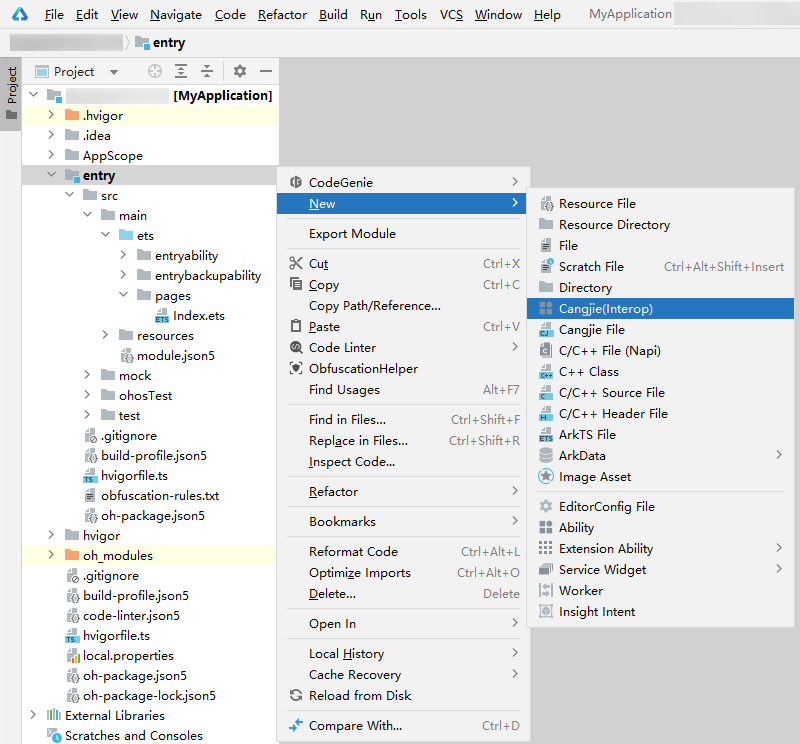
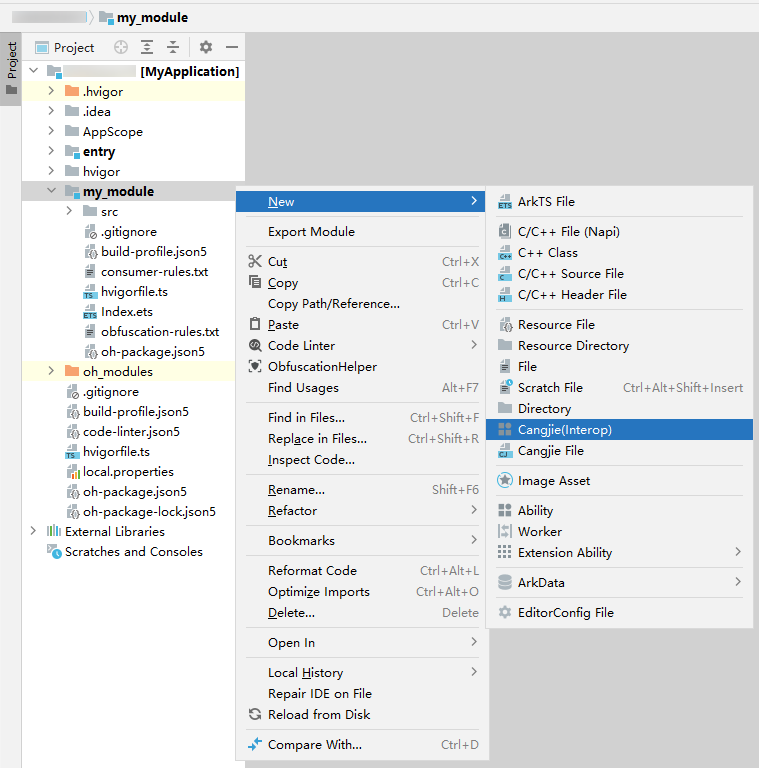
fix: cj-quick-start-first-cangjie-hybrid-module.md support for Shared Library template

Changed region(s): [[0.0, 0.0, 1.0, 1.0]]

diff --git a/en/application-dev/learn-cj/FFI/cangjie-arkts/cj-quick-start-first-cangjie-hybrid-module.md b/en/application-dev/learn-cj/FFI/cangjie-arkts/cj-quick-start-first-cangjie-hybrid-module.md
@@ -2,7 +2,7 @@
 
 > **Note:**
 >
-> To ensure the operational effect, this document uses **DevEco Studio 5.0.2 Release** and **DevEco Studio-Cangjie Plugin 5.0.7.100 Beta1** as examples. Click [here](https://developer.huawei.com/consumer/en/download/) to download the latest version.
+> To ensure the operational effect, this document uses **DevEco Studio 6.0.2 Release** and **DevEco Studio-Cangjie Plugin 6.0.2 Beta2** as examples. Click [here](https://developer.huawei.com/consumer/en/download/) to download the latest version.
 
 This document is intended for OpenHarmony application developers who have a basic understanding of the Cangjie language, ArkTS language, and UI frameworks. Based on a simple, purely ArkTS-developed application that supports page navigation/return functionality, this guide demonstrates how to introduce Cangjie to develop incremental features (e.g., Cangjie providing a synchronous interface for ArkTS to call, an asynchronous interface for ArkTS to call, and embedding a Cangjie component in the original ArkTS page). This helps developers quickly understand how to introduce Cangjie into existing ArkTS projects and familiarize themselves with the hybrid application development process.
 
@@ -44,7 +44,7 @@ Project_name
 
 Where:
 - **entry** is an ArkTS module created using the **Empty Ability** project template, which is compiled into a HAP package.
-- **my_module** is an ArkTS static library module created using the **Static Library** project template, which is compiled into a HAR package and depended on by the **entry** module.
+- **my_module** is an ArkTS module created using a project template. The module will be compiled into a HAR package and depended on by the **entry** module. **my_module** can be created using either the **Shared Library** project template or the **Static Library** project template. The sample code below creates an ArkTS shared library module using the **Shared Library** project template.
 
 Both **entry** and **my_module** modules contain a page, with navigation between them via the Navigation component.
 
@@ -66,11 +66,11 @@ Both **entry** and **my_module** modules contain a page, with navigation between
    │    ├── mock
    │    ├── ohosTest
    │    └── test
+   ├── .gitignore
    ├── build-profile.json5
    ├── hvigorfile.ts
    ├── obfuscation-rules.txt
-   ├── oh-package.json5
-   └── oh-package-lock.json5
+   └── oh-package.json5
    ```
 
    - Example of **entry > src > main > ets > pages > Index.ets**:
@@ -119,18 +119,23 @@ Both **entry** and **my_module** modules contain a page, with navigation between
    ├── src
    │    ├── main
    │    │    ├── ets
-   │    │    │    └── pages
-   │    │    │         └── MyModulePage.ets
+   │    │    │    ├── pages
+   |    │    │    │    ├── Index.ets
+   │    │    │    │    └── MyModulePage.ets
+   |    │    │    └── utils
    │    │    ├── resources
-   │    │    │    └── base
-   │    │    │         ├── element
-   │    │    │         └── profile
-   │    │    │              └──router_map.json
+   │    │    │    ├── base
+   │    │    │    │    ├── element
+   |    │    │    │    ├── media
+   │    │    │    │    └── profile
+   │    │    │    │         ├──main_pages.json
+   │    │    │    │         └──router_map.json
+   │    │    │    └── rawfile
    │    │    └── module.json5
    │    ├── ohosTest
    │    └── test
+   ├── .gitignore
    ├── build-profile.json5
-   ├── BuildProfile.ets
    ├── consumer-rules.txt
    ├── hvigorfile.ts
    ├── Index.ets
@@ -178,7 +183,6 @@ Both **entry** and **my_module** modules contain a page, with navigation between
    - **my_module > src > main > resources > base > profile > route_map.json** must configure the subpage routing information, as shown below:
 
    ```json
-   // router_map.json
    {
      "routerMap": [
        {
@@ -206,10 +210,6 @@ Both **entry** and **my_module** modules contain a page, with navigation between
 
 ## Incrementally Using Cangjie in an ArkTS Module
 
-> **Note:**
->
-> Currently, Cangjie modules only support OpenHarmony static library modules, i.e., HAR static shared packages.
-
 Using the original ArkTS application project as an example, this section explains how to enable Cangjie development in an ArkTS module (i.e., **my_module**).
 
 ### Right-Click Menu to Enable Cangjie-ArkTS Hybrid Module
@@ -231,22 +231,29 @@ After the project syncs automatically, the directory structure is as follows:
     │    ├── main
     │    │    ├── cangjie
     │    │    │    ├── types
-    │    │    │    │    └── libohos_app_cangjie_entry
+    │    │    │    │    └── libohos_app_cangjie_my_module
     │    │    │    │          ├── Index.d.ts
     │    │    │    │          └── oh-package.json5
     │    │    │    └── index.cj
     │    │    ├── ets
-    │    │    │    └── pages
-    │    │    │         └── MyModulePage.ets
+    │    │    │    ├── pages
+    |    │    │    |    ├── Index.ets
+    │    │    │    |    └── MyModulePage.ets
+    |    │    │    └── utils
     │    │    ├── resources
     │    │    │    └── base
-    │    │    │         ├── element
-    │    │    │         └── profile
-    │    │    │              └── router_map.json
+    │    │    │    |    ├── element
+    |    │    │    |    ├── media
+    │    │    │    |    └── profile
+    |    │    │    |         ├──main_pages.json
+    │    │    │    |         └── router_map.json
+    |    │    │    └── rawfile
     │    │    └── module.json5
     │    ├── ohosTest
     │    └── test
     ├── build-profile.json5
+    ├── cjpm.lock
+    ├── cjpm.toml
     ├── consumer-rules.txt
     ├── hvigorfile.ts
     ├── Index.ets
@@ -293,7 +300,7 @@ Here, **my_module** becomes a Cangjie-ArkTS hybrid module.
 
 2. Automatically generate Cangjie-ArkTS interop interface declarations.
 
-   Open **index.cj**, right-click in the editor, and select **Generate... > Cangjie-ArkTS Interop API**. This generates .d.ts interface declarations in **entry > src > main > cangjie > types > libohos_app_cangjie_entry > Index.d.ts**, exposing Cangjie interfaces to ArkTS. The directory structure is as follows:
+   Open **index.cj**, right-click in the editor, and select **Generate... > Cangjie-ArkTS Interop API**. This generates .d.ts interface declarations in **entry > src > main > cangjie > types > libohos_app_cangjie_my_module > Index.d.ts**, exposing Cangjie interfaces to ArkTS. The directory structure is as follows:
 
    ```text
    my_module
@@ -305,7 +312,7 @@ Here, **my_module** becomes a Cangjie-ArkTS hybrid module.
              ├── cangjie
              │    ├── ark_interop_api
              │    ├── types
-             │    │    └── libohos_app_cangjie_entry
+             │    │    └── libohos_app_cangjie_my_module
              │    │         │── Index.d.ts
              │    │         └── oh-package.json5
              │    └── index.cj
@@ -419,9 +426,11 @@ Here, **my_module** becomes a Cangjie-ArkTS hybrid module.
         │    │    ├── cangjie_page.cj
         │    │    └── index.cj
         │    ├── ets
-        │    │    └── pages
-        │    │         └── cangjie_page.ets
-        │    │         └── MyModulePage.ets
+        │    │    ├── pages
+        │    │    |    ├── cangjie_page.ets
+        |    │    |    ├── Index.ets
+        │    │    |    └── MyModulePage.ets
+        |    |    └── utils
         │    ├── resources
         │    └── module.json5
         ├── ohosTest

diff --git a/zh-cn/application-dev/learn-cj/FFI/cangjie-arkts/cj-quick-start-first-cangjie-hybrid-module.md b/zh-cn/application-dev/learn-cj/FFI/cangjie-arkts/cj-quick-start-first-cangjie-hybrid-module.md
@@ -2,7 +2,7 @@
 
 > **说明：**
 >
-> 为确保运行效果，本文以**DevEco Studio 5.0.2 Release** 和 **DevEco Studio-Cangjie Plugin 5.0.7.100 Beta1** 版本为例，单击[此处](https://developer.huawei.com/consumer/cn/download/)获取最新版本的下载链接。
+> 为确保运行效果，本文以**DevEco Studio 6.0.2 Release** 和 **DevEco Studio-Cangjie Plugin 6.0.2 Beta2** 版本为例，单击[此处](https://developer.huawei.com/consumer/cn/download/)获取最新版本的下载链接。
 
 本文档适用于对仓颉语言、ArkTS语言、UI框架等有基本概念的OpenHarmony应用开发者。基于一个简单的、支持页面跳转/返回功能的、纯ArkTS开发的应用，通过引入仓颉来开发一些增量业务（比如，仓颉提供一个同步接口给ArkTS调用，仓颉提供一个异步接口给ArkTS调用，在原ArkTS页面中嵌入一个仓颉组件），来帮助开发者快速了解如何在存量ArkTS业务中，快速引入仓颉进行开发，熟悉混合应用的开发流程。
 
@@ -45,7 +45,7 @@ Project_name
 其中：
 
 - **entry** 是通过 **Empty Ability** 工程模板创建的ArkTS模块，该模块会被编译为HAP包。
-- **my_module** 是通过 **Static Library** 工程模块创建的ArkTS静态库模块，该模块会被编译为HAR包，被**entry**模块依赖。
+- **my_module** 是通过工程模板创建的ArkTS模块，该模块会被编译为HAR包，被**entry**模块依赖。**my_module** 模块可以通过 **Shared Library** 工程模板创建，也可以通过 **Static Library** 工程模板创建，下面示例代码通过 **Shared Library** 工程模板创建ArkTS共享库模块。
 
 **entry**和**my_module**模块内各有一个页面，通过Navigation进行页面路由。
 
@@ -67,11 +67,11 @@ Project_name
    │    ├── mock
    │    ├── ohosTest
    │    └── test
+   ├── .gitignore
    ├── build-profile.json5
    ├── hvigorfile.ts
    ├── obfuscation-rules.txt
-   ├── oh-package.json5
-   └── oh-package-lock.json5
+   └── oh-package.json5
    ```
 
     - **entry > src > main > ets > pages > Index.ets** 文件的示例如下：
@@ -120,18 +120,23 @@ Project_name
    ├── src
    │    ├── main
    │    │    ├── ets
-   │    │    │    └── pages
-   │    │    │         └── MyModulePage.ets
+   │    │    │    ├── pages
+   |    │    │    │    ├── Index.ets
+   │    │    │    │    └── MyModulePage.ets
+   |    │    │    └── utils
    │    │    ├── resources
-   │    │    │    └── base
-   │    │    │         ├── element
-   │    │    │         └── profile
-   │    │    │              └──router_map.json
+   │    │    │    ├── base
+   │    │    │    │    ├── element
+   |    │    │    │    ├── media
+   │    │    │    │    └── profile
+   │    │    │    │         ├──main_pages.json
+   │    │    │    │         └──router_map.json
+   │    │    │    └── rawfile
    │    │    └── module.json5
    │    ├── ohosTest
    │    └── test
+   ├── .gitignore
    ├── build-profile.json5
-   ├── BuildProfile.ets
    ├── consumer-rules.txt
    ├── hvigorfile.ts
    ├── Index.ets
@@ -179,7 +184,6 @@ Project_name
     - **my_module > src > main > resources > base > profile > router_map.json**需要配置子页的路由信息，示例如下：
 
    ```json
-   // router_map.json
    {
      "routerMap": [
        {
@@ -207,10 +211,6 @@ Project_name
 
 ## 在ArkTS模块中增量使用仓颉
 
-> **说明：**
->
-> 仓颉模块目前仅支持OpenHarmony的静态库模块，即HAR静态共享包。
-
 仍以上方原始的ArkTS应用工程为例，介绍如何在ArkTS模块中（即**my_module**）使能仓颉开发。
 
 ### 右键菜单一键使能仓颉-ArkTS混合模块
@@ -232,22 +232,29 @@ Project_name
     │    ├── main
     │    │    ├── cangjie
     │    │    │    ├── types
-    │    │    │    │    └── libohos_app_cangjie_entry
+    │    │    │    │    └── libohos_app_cangjie_my_module
     │    │    │    │          ├── Index.d.ts
     │    │    │    │          └── oh-package.json5
     │    │    │    └── index.cj
     │    │    ├── ets
-    │    │    │    └── pages
-    │    │    │         └── MyModulePage.ets
+    │    │    │    ├── pages
+    |    │    │    |    ├── Index.ets
+    │    │    │    |    └── MyModulePage.ets
+    |    │    │    └── utils
     │    │    ├── resources
     │    │    │    └── base
-    │    │    │         ├── element
-    │    │    │         └── profile
-    │    │    │              └── router_map.json
+    │    │    │    |    ├── element
+    |    │    │    |    ├── media
+    │    │    │    |    └── profile
+    |    │    │    |         ├──main_pages.json
+    │    │    │    |         └── router_map.json
+    |    │    │    └── rawfile
     │    │    └── module.json5
     │    ├── ohosTest
     │    └── test
     ├── build-profile.json5
+    ├── cjpm.lock
+    ├── cjpm.toml
     ├── consumer-rules.txt
     ├── hvigorfile.ts
     ├── Index.ets
@@ -294,7 +301,7 @@ Project_name
 
 2. 自动生成仓颉-ArkTS互操作接口声明。
 
-   打开上述**index.cj**文件，在文件编辑界面中右键单击选择**Generate... > Cangjie-ArkTS Interop API**，则会在**entry > src > main > cangjie > types > libohos_app_cangjie_entry**目录下的**Index.d.ts**文件中自动生成仓颉暴露给ArkTS的.d.ts接口声明，目录结构如下所示：
+   打开上述**index.cj**文件，在文件编辑界面中右键单击选择**Generate... > Cangjie-ArkTS Interop API**，则会在**entry > src > main > cangjie > types > libohos_app_cangjie_my_module**目录下的**Index.d.ts**文件中自动生成仓颉暴露给ArkTS的.d.ts接口声明，目录结构如下所示：
 
    ```text
    my_module
@@ -306,7 +313,7 @@ Project_name
              ├── cangjie
              │    ├── ark_interop_api
              │    ├── types
-             │    │    └── libohos_app_cangjie_entry
+             │    │    └── libohos_app_cangjie_my_module
              │    │         │── Index.d.ts
              │    │         └── oh-package.json5
              │    └── index.cj
@@ -422,9 +429,11 @@ Project_name
         │    │    ├── cangjie_page.cj
         │    │    └── index.cj
         │    ├── ets
-        │    │    └── pages
-        │    │         └── cangjie_page.ets
-        │    │         └── MyModulePage.ets
+        │    │    ├── pages
+        │    │    |    ├── cangjie_page.ets
+        |    │    |    ├── Index.ets
+        │    │    |    └── MyModulePage.ets
+        |    |    └── utils
         │    ├── resources
         │    └── module.json5
         ├── ohosTest
